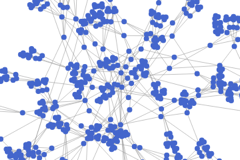
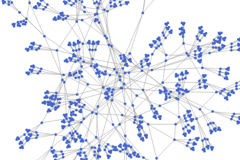
docs: fit the large network example in view and start its layout over for a new count

diff --git a/docs/.vitepress/components/10_lite/01/LargeNetwork.vue b/docs/.vitepress/components/10_lite/01/LargeNetwork.vue
@@ -29,8 +29,8 @@ const configs = reactive(
             .id(d => d.id)
           return d3
             .forceSimulation(nodes)
-            .force("edge", forceLink.distance(20).strength(0.5))
-            .force("charge", d3.forceManyBody().strength(-40))
+            .force("edge", forceLink.distance(15).strength(0.5))
+            .force("charge", d3.forceManyBody().strength(-20))
             .force("center", d3.forceCenter().strength(0.05))
             .alphaMin(0.001)
         },
@@ -38,7 +38,7 @@ const configs = reactive(
     },
     node: {
       normal: {
-        radius: 4,
+        radius: 2,
         color: "#4466cc",
       },
       label: {
@@ -83,11 +83,13 @@ function buildNetwork(count: number, nodes: vNG.Nodes, edges: vNG.Edges) {
 <template>
   <div class="demo-control-panel">
     <label>Node count:</label>
-    <el-input-number v-model="nodeCount" :min="100" :max="3000" :step="100" />
-    <label>(&lt;= 3000)</label>
+    <el-input-number v-model="nodeCount" :min="100" :max="2000" :step="100" />
+    <label>(&lt;= 2000)</label>
   </div>
 
+  <!-- Mounted again for a new count, so that the layout starts over -->
   <v-network-graph-lite
+    :key="nodeCount"
     :zoom-level="0.2"
     :nodes="nodes"
     :edges="edges"

diff --git a/docs/examples/lite.md b/docs/examples/lite.md
@@ -30,7 +30,7 @@ Those slots are left out, with a warning in the console.
 </template>
 <template v-slot:source>
 
-  <<< @/.vitepress/components/10_lite/01/LargeNetwork.vue{21-55,90-95}
+  <<< @/.vitepress/components/10_lite/01/LargeNetwork.vue{21-55,90-97}
 
 </template>
 </demo-tabs>
